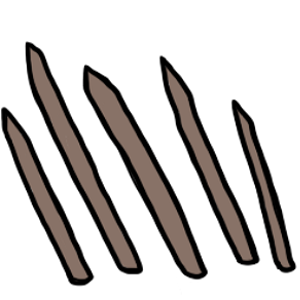
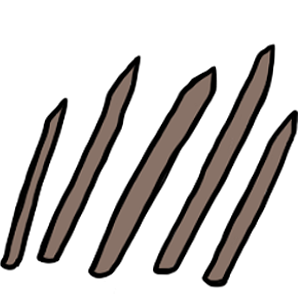
fixed tutorial
removed some code that was giving a null error that i didn't know what it did and now it works

oh also flipped the spikes ui makes more sense the pointy ends are at the enemy

diff --git a/Assets/Scrripts/Systems big/TutorialManager.cs b/Assets/Scrripts/Systems big/TutorialManager.cs
@@ -31,6 +31,7 @@ public class TutorialManager : MonoBehaviour
         _tutorialImage = tutorialPanel.GetComponent<Image>();
         _enemyManager = FindObjectOfType<EnemysManager>();
         _soundManager = FindObjectOfType<SoundManager>();
+        _panelTweening = FindObjectOfType<PanelTweening>();
 
         if (_tutorialing)
         {
@@ -136,7 +137,9 @@ public class TutorialManager : MonoBehaviour
         _tutorialImage.color = co;
         tutorialText.text = text;
         _soundManager.PlaySound("sensei");
-        _panelTweening.ExecuteTween();
+        //_panelTweening.ExecuteTween();
+        //yeah not sure why above line didn't cause issues before but now does maybe its because I went to a new version of unity
+        //but it works without it so...
     }
 
     public void yesToTutorial()
